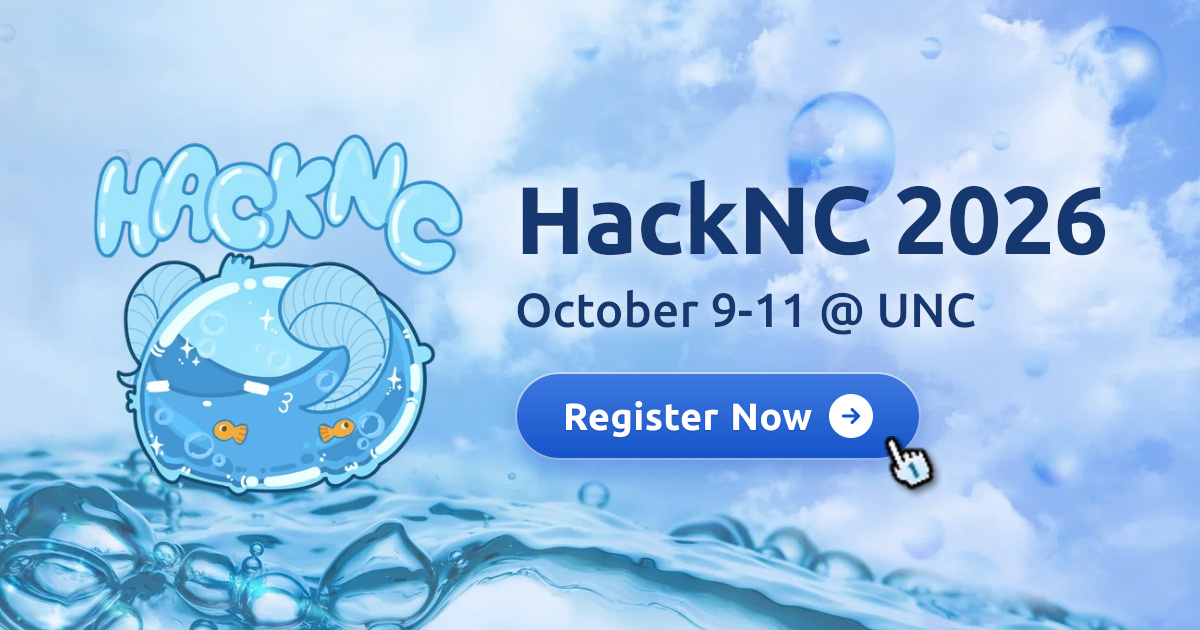
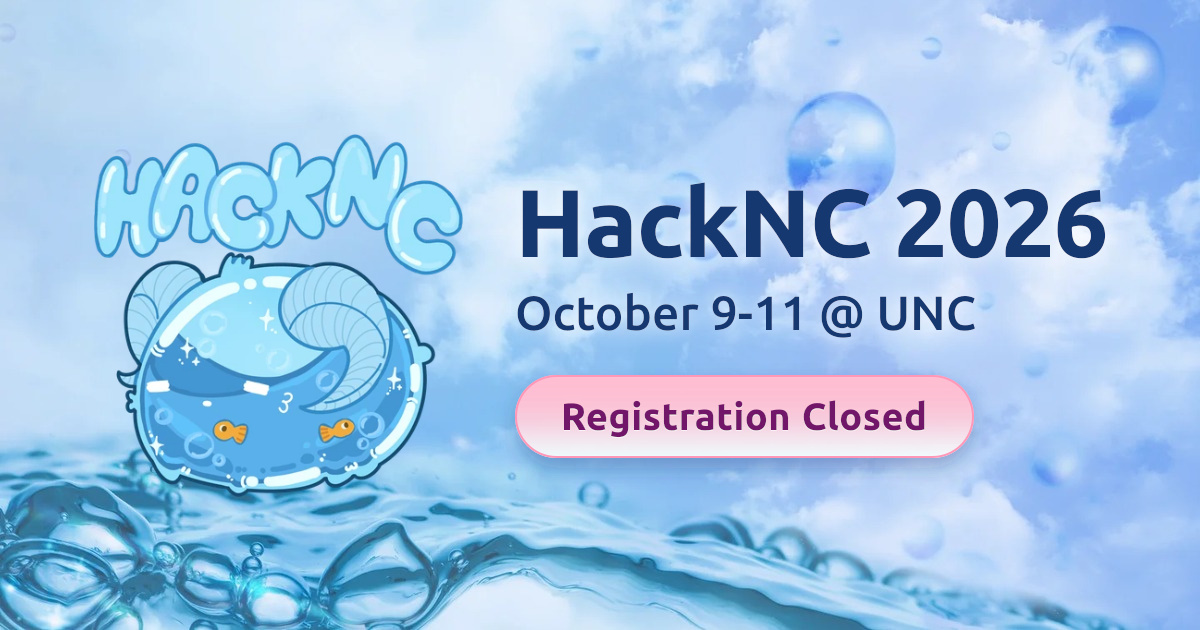
fix: update registration link to show closed

diff --git a/app/_og/opengraph-image.tsx b/app/_og/opengraph-image.tsx
@@ -32,11 +32,12 @@ import { ImageResponse } from "next/og";
  *     the build never depends on the live site. The backdrop is pre-cropped
  *     to 1200 x 630, as `objectFit: "cover"` did.
  *
- * The arrow is drawn as an SVG, since Ubuntu's Latin subset has no "→". And
- * the button's label is in its own element: as a bare text node beside the
- * arrow, Satori laid it out but never painted it.
+ * The button's label is in its own element: as a bare text node beside
+ * another element, Satori laid it out but never painted it. (While
+ * registration was open the button had an arrow, drawn as an SVG since
+ * Ubuntu's Latin subset has no "→", and the Wii cursor pointing at it.)
  */
-export const alt = "HackNC 2026 — October 9-11 @ UNC. Register now!";
+export const alt = "HackNC 2026 — October 9-11 @ UNC. Registration closed.";
 export const size = { width: 1200, height: 630 };
 export const contentType = "image/png";
 
@@ -51,12 +52,11 @@ async function dataUrl(file: string, type: string) {
 }
 
 export default async function Image() {
-  const [ubuntuMedium, ubuntuBold, backdrop, logo, cursor] = await Promise.all([
+  const [ubuntuMedium, ubuntuBold, backdrop, logo] = await Promise.all([
     asset("Ubuntu-Medium.ttf"),
     asset("Ubuntu-Bold.ttf"),
     dataUrl("backdrop.jpg", "image/jpeg"),
     dataUrl("logo.png", "image/png"),
-    dataUrl("cursor.png", "image/png"),
   ]);
 
   return new ImageResponse(
@@ -118,57 +118,28 @@ export default async function Image() {
           October 9-11 @ UNC
         </div>
 
-        <div style={{ display: "flex", position: "relative", marginTop: 36 }}>
-          <div
-            style={{
-              display: "flex",
-              alignItems: "center",
-              gap: 16,
-              padding: "20px 46px",
-              borderRadius: 999,
-              fontSize: 38,
-              fontWeight: 700,
-              letterSpacing: "0.01em",
-              color: "#ffffff",
-              textShadow: "0 1px 2px rgba(23,55,113,0.45)",
-              backgroundImage:
-                "linear-gradient(180deg, #3f7ae0 0%, #1554c9 100%)",
-              border: "2px solid rgba(255,255,255,0.55)",
-              boxShadow:
-                "0 12px 24px rgba(21,84,201,0.35), inset 0 2px 0 rgba(255,255,255,0.35)",
-            }}
-          >
-            <div style={{ display: "flex" }}>Register Now</div>
-            <div
-              style={{
-                display: "flex",
-                alignItems: "center",
-                justifyContent: "center",
-                width: 44,
-                height: 44,
-                borderRadius: 999,
-                background: "#ffffff",
-              }}
-            >
-              <svg width="26" height="26" viewBox="0 0 24 24">
-                <path
-                  d="M5 12h13M13 6l6 6-6 6"
-                  stroke="#1554c9"
-                  strokeWidth="2.8"
-                  fill="none"
-                  strokeLinecap="round"
-                  strokeLinejoin="round"
-                />
-              </svg>
-            </div>
-          </div>
-          <img
-            src={cursor}
-            width={64}
-            height={64}
-            alt=""
-            style={{ position: "absolute", right: -26, bottom: -40 }}
-          />
+        {/*
+          Registration has closed, so the button is a label: the hero's pink
+          "blossom" tag, with no arrow and no pointing cursor.
+        */}
+        <div
+          style={{
+            display: "flex",
+            marginTop: 36,
+            padding: "18px 44px",
+            borderRadius: 999,
+            fontSize: 38,
+            fontWeight: 700,
+            letterSpacing: "0.01em",
+            color: "#711767",
+            textShadow: "0 1px 0 rgba(255,255,255,0.6)",
+            backgroundImage:
+              "linear-gradient(180deg, rgba(255,255,255,0.4) 0%, rgba(255,255,255,0) 55%), linear-gradient(180deg, #ff98b8 5%, rgba(244,255,254,0.95) 100%)",
+            border: "2px solid #ff98b8",
+            boxShadow: "0 10px 20px rgba(23,55,113,0.3)",
+          }}
+        >
+          <div style={{ display: "flex" }}>Registration Closed</div>
         </div>
       </div>
     </div>,

diff --git a/components/RegistrationFish.tsx b/components/RegistrationFish.tsx
@@ -1,8 +1,12 @@
 import Image from "next/image";
-import { REGISTER_HREF } from "@/data/site";
+import { REGISTER_HREF, REGISTRATION_OPEN } from "@/data/site";
 
 /**
  * The registration fish: swims across the page and links to the form.
+ *
+ * Once registration closes (REGISTRATION_OPEN in data/site.ts) it keeps
+ * swimming — it is part of the page — but is no longer a link, and the text
+ * on its back says so.
  *
  * Two nested elements, each running one animation. A single element can only
  * hold one transform at a time, so the crossing and the bob would overwrite
@@ -38,16 +42,7 @@ export default function RegistrationFish() {
        */
       className="pointer-events-none absolute inset-x-0 left-1/2 z-30 hidden w-screen -translate-x-1/2 overflow-x-clip sm:top-[4rem] sm:block"
     >
-      <a
-        href={REGISTER_HREF}
-        target="_blank"
-        rel="noreferrer"
-        // Pauses on hover and focus: a link that is still moving when you
-        // reach for it is a link you keep missing.
-        className="group pointer-events-auto inline-block rounded-full focus-visible:outline-2 focus-visible:outline-offset-4 focus-visible:outline-royal motion-safe:animate-fish-swim motion-safe:hover:[animation-play-state:paused] motion-safe:focus-visible:[animation-play-state:paused]"
-      >
-        <span className="sr-only">Register for HackNC 2026</span>
-
+      <FishBody>
         <span
           aria-hidden="true"
           className="relative block w-[11rem] motion-safe:animate-fish-bob motion-safe:group-hover:[animation-play-state:paused] sm:w-[14rem] lg:w-[17rem]"
@@ -97,12 +92,42 @@ export default function RegistrationFish() {
               paintOrder="stroke"
             >
               <textPath href="#fish-text-arc" startOffset="0%">
-                click me to register...
+                {REGISTRATION_OPEN
+                  ? "click me to register..."
+                  : "registration closed"}
               </textPath>
             </text>
           </svg>
         </span>
-      </a>
+      </FishBody>
     </div>
+  );
+}
+
+/** The swimmer: the form's link while registration is open, plain otherwise. */
+function FishBody({ children }: { children: React.ReactNode }) {
+  const swim = "group inline-block rounded-full motion-safe:animate-fish-swim";
+
+  if (!REGISTRATION_OPEN) {
+    return (
+      <span className={swim}>
+        <span className="sr-only">Registration for HackNC 2026 is closed</span>
+        {children}
+      </span>
+    );
+  }
+
+  return (
+    <a
+      href={REGISTER_HREF}
+      target="_blank"
+      rel="noreferrer"
+      // Pauses on hover and focus: a link that is still moving when you reach
+      // for it is a link you keep missing.
+      className={`${swim} pointer-events-auto focus-visible:outline-2 focus-visible:outline-offset-4 focus-visible:outline-royal motion-safe:hover:[animation-play-state:paused] motion-safe:focus-visible:[animation-play-state:paused]`}
+    >
+      <span className="sr-only">Register for HackNC 2026</span>
+      {children}
+    </a>
   );
 }

diff --git a/components/Hero.tsx b/components/Hero.tsx
@@ -4,7 +4,7 @@ import { useEffect, useState } from "react";
 import Image from "next/image";
 import { glossyPill } from "@/components/glossyPill";
 import wordmark from "@/app/figma/hacknc 2026.png";
-import { REGISTER_HREF } from "@/data/site";
+import { REGISTER_HREF, REGISTRATION_OPEN } from "@/data/site";
 
 type TimeLeft = {
   days: number;
@@ -223,17 +223,34 @@ export default function Hero() {
           for the phone layout without moving on wider screens.
         */}
         <span className="mt-5 flex justify-center sm:absolute sm:-top-7 sm:right-8 sm:z-10 sm:mt-0 sm:block">
-          <a
-            href={REGISTER_HREF}
-            target="_blank"
-            rel="noreferrer"
-            className={glossyPill(
-              "blossom",
-              "shadow-[0_6px_14px_rgba(23,55,113,0.35)] sm:px-10 sm:py-3 sm:text-2xl"
-            )}
-          >
-            register here !
-          </a>
+          {REGISTRATION_OPEN ? (
+            <a
+              href={REGISTER_HREF}
+              target="_blank"
+              rel="noreferrer"
+              className={glossyPill(
+                "blossom",
+                "shadow-[0_6px_14px_rgba(23,55,113,0.35)] sm:px-10 sm:py-3 sm:text-2xl"
+              )}
+            >
+              register here !
+            </a>
+          ) : (
+            /*
+              Kept in place once registration closes, so anyone who comes for
+              the form gets an answer rather than finding it gone. Same pink
+              tag, so the hero keeps its colour, but plain text rather than a
+              link, with the hover and press effects switched off.
+            */
+            <p
+              className={glossyPill(
+                "blossom",
+                "shadow-[0_6px_14px_rgba(23,55,113,0.35)] hover:brightness-100 active:translate-y-0 sm:px-10 sm:py-3 sm:text-2xl"
+              )}
+            >
+              registration closed
+            </p>
+          )}
         </span>
       </div>
     </section>

diff --git a/app/layout.tsx b/app/layout.tsx
@@ -20,16 +20,16 @@ const ubuntu = Ubuntu({
  * What a link to the site shows when it is pasted into Discord, Slack,
  * iMessage and the like.
  *
- * The preview image is app/opengraph-image.jpg (and twitter-image.jpg, the
- * same picture for X): Next finds those files by name and writes the tags,
- * so nothing here points at them. `metadataBase` is what turns their paths
+ * The preview image is app/opengraph-image.jpg (a render of the design in
+ * app/_og/; X uses it too): Next finds the file by name and writes the tags,
+ * so nothing here points at it. `metadataBase` is what turns their paths
  * into the absolute URLs link previews require.
  *
  * Apps cache a link's preview, so after a change a link that was already
  * shared can keep showing the old one for a while; pasting it fresh (or with
  * `?v=2` on the end) fetches the new one.
  */
-const previewText = "October 9-11 @ UNC - Register Now!";
+const previewText = "October 9-11 @ UNC - Registration closed";
 
 export const metadata: Metadata = {
   metadataBase: new URL("https://hacknc.com"),

diff --git a/data/site.ts b/data/site.ts
@@ -2,7 +2,15 @@
  * Site-wide links.
  *
  * The registration form is referenced from more than one place — the hero's
- * "register here !" tag and the swimming fish — so it lives here rather than
- * being written out twice. One edit when the form moves.
+ * tag and the swimming fish — so it lives here rather than being written out
+ * twice. One edit when the form moves.
  */
 export const REGISTER_HREF = "https://form.typeform.com/to/VbwryQz0";
+
+/*
+ * Whether registration is taking sign-ups. While false, the hero tag and the
+ * fish both read "registration closed" and link nowhere. Set it back to true
+ * to restore them both — the link preview (app/layout.tsx and the image in
+ * app/_og/) says "Registration closed" too, and is changed by hand.
+ */
+export const REGISTRATION_OPEN = false;
